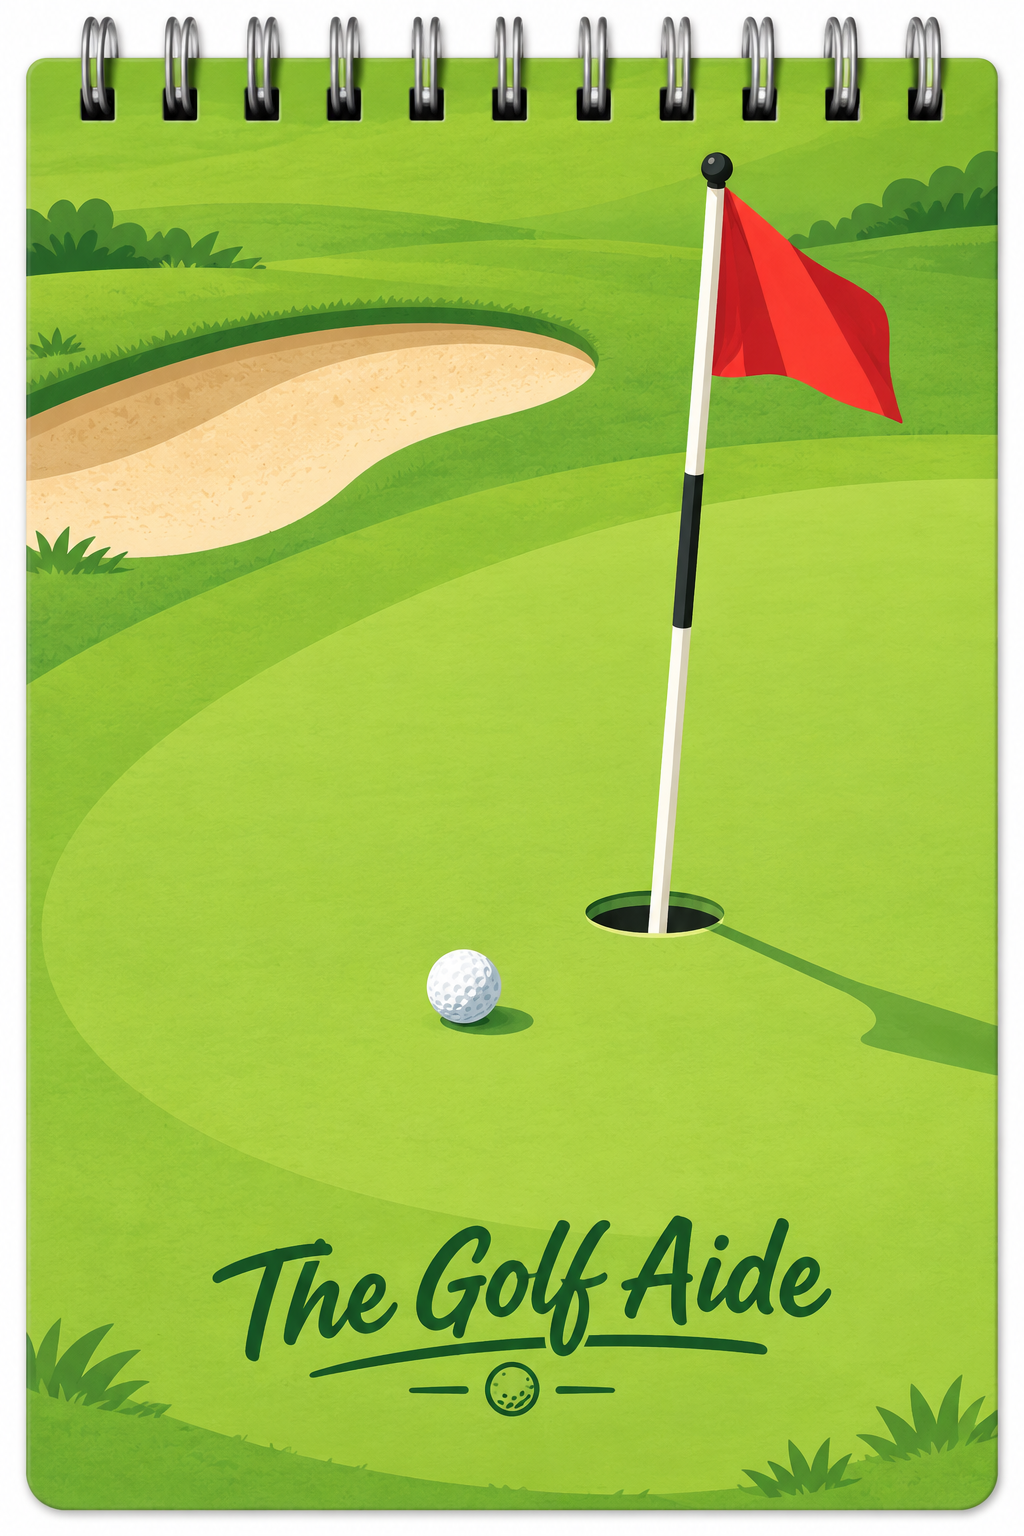
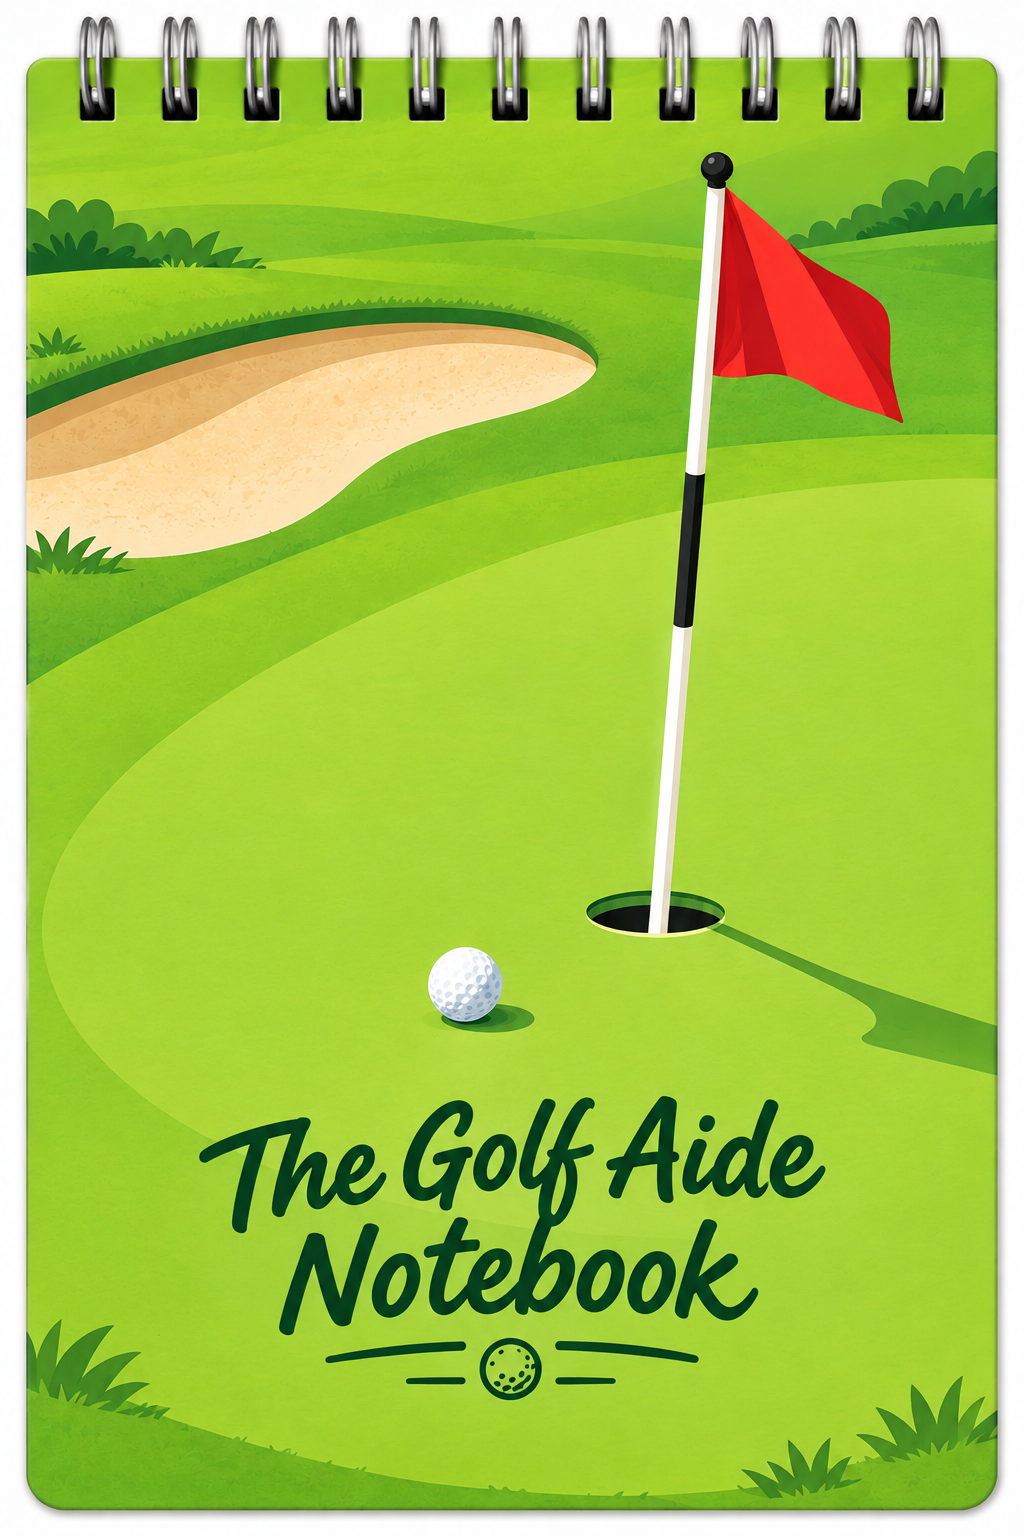
Fix: Add bullseye emoji to Shot Analyzer button and update cover image

diff --git a/index.html b/index.html
@@ -257,7 +257,7 @@
         }
 
         .cover-page .page-content {
-            background-image: url('golf-cover.png');
+            background-image: url('golf-cover.png?v=3.b');
             background-size: cover;
             background-position: center;
             background-repeat: no-repeat;
@@ -679,7 +679,7 @@
             <div class="header-buttons">
                 <button class="header-btn" id="clubSetupBtn">Setup</button>
                 <button class="header-btn" id="yardageBtn">&#128208; Yardage</button>
-                <button class="header-btn" id="shotAnalyzerBtn">Shot Analyzer</button>
+                <button class="header-btn" id="shotAnalyzerBtn">🎯 Shot Analyzer</button>
             </div>
         </div>
 
@@ -698,7 +698,7 @@
         <div class="footer">
             <div class="page-counter" id="pageCounter">1 / 44</div>
             <div class="footer-author-info" id="footerAuthorInfo" style="display: none;">
-                Personalized for JT • v.3
+                Personalized for JT • v.3.b
             </div>
             <div class="nav-buttons">
                 <button class="nav-btn" id="prevBtn" onclick="goToPage(currentPage - 1)">← Back</button>
